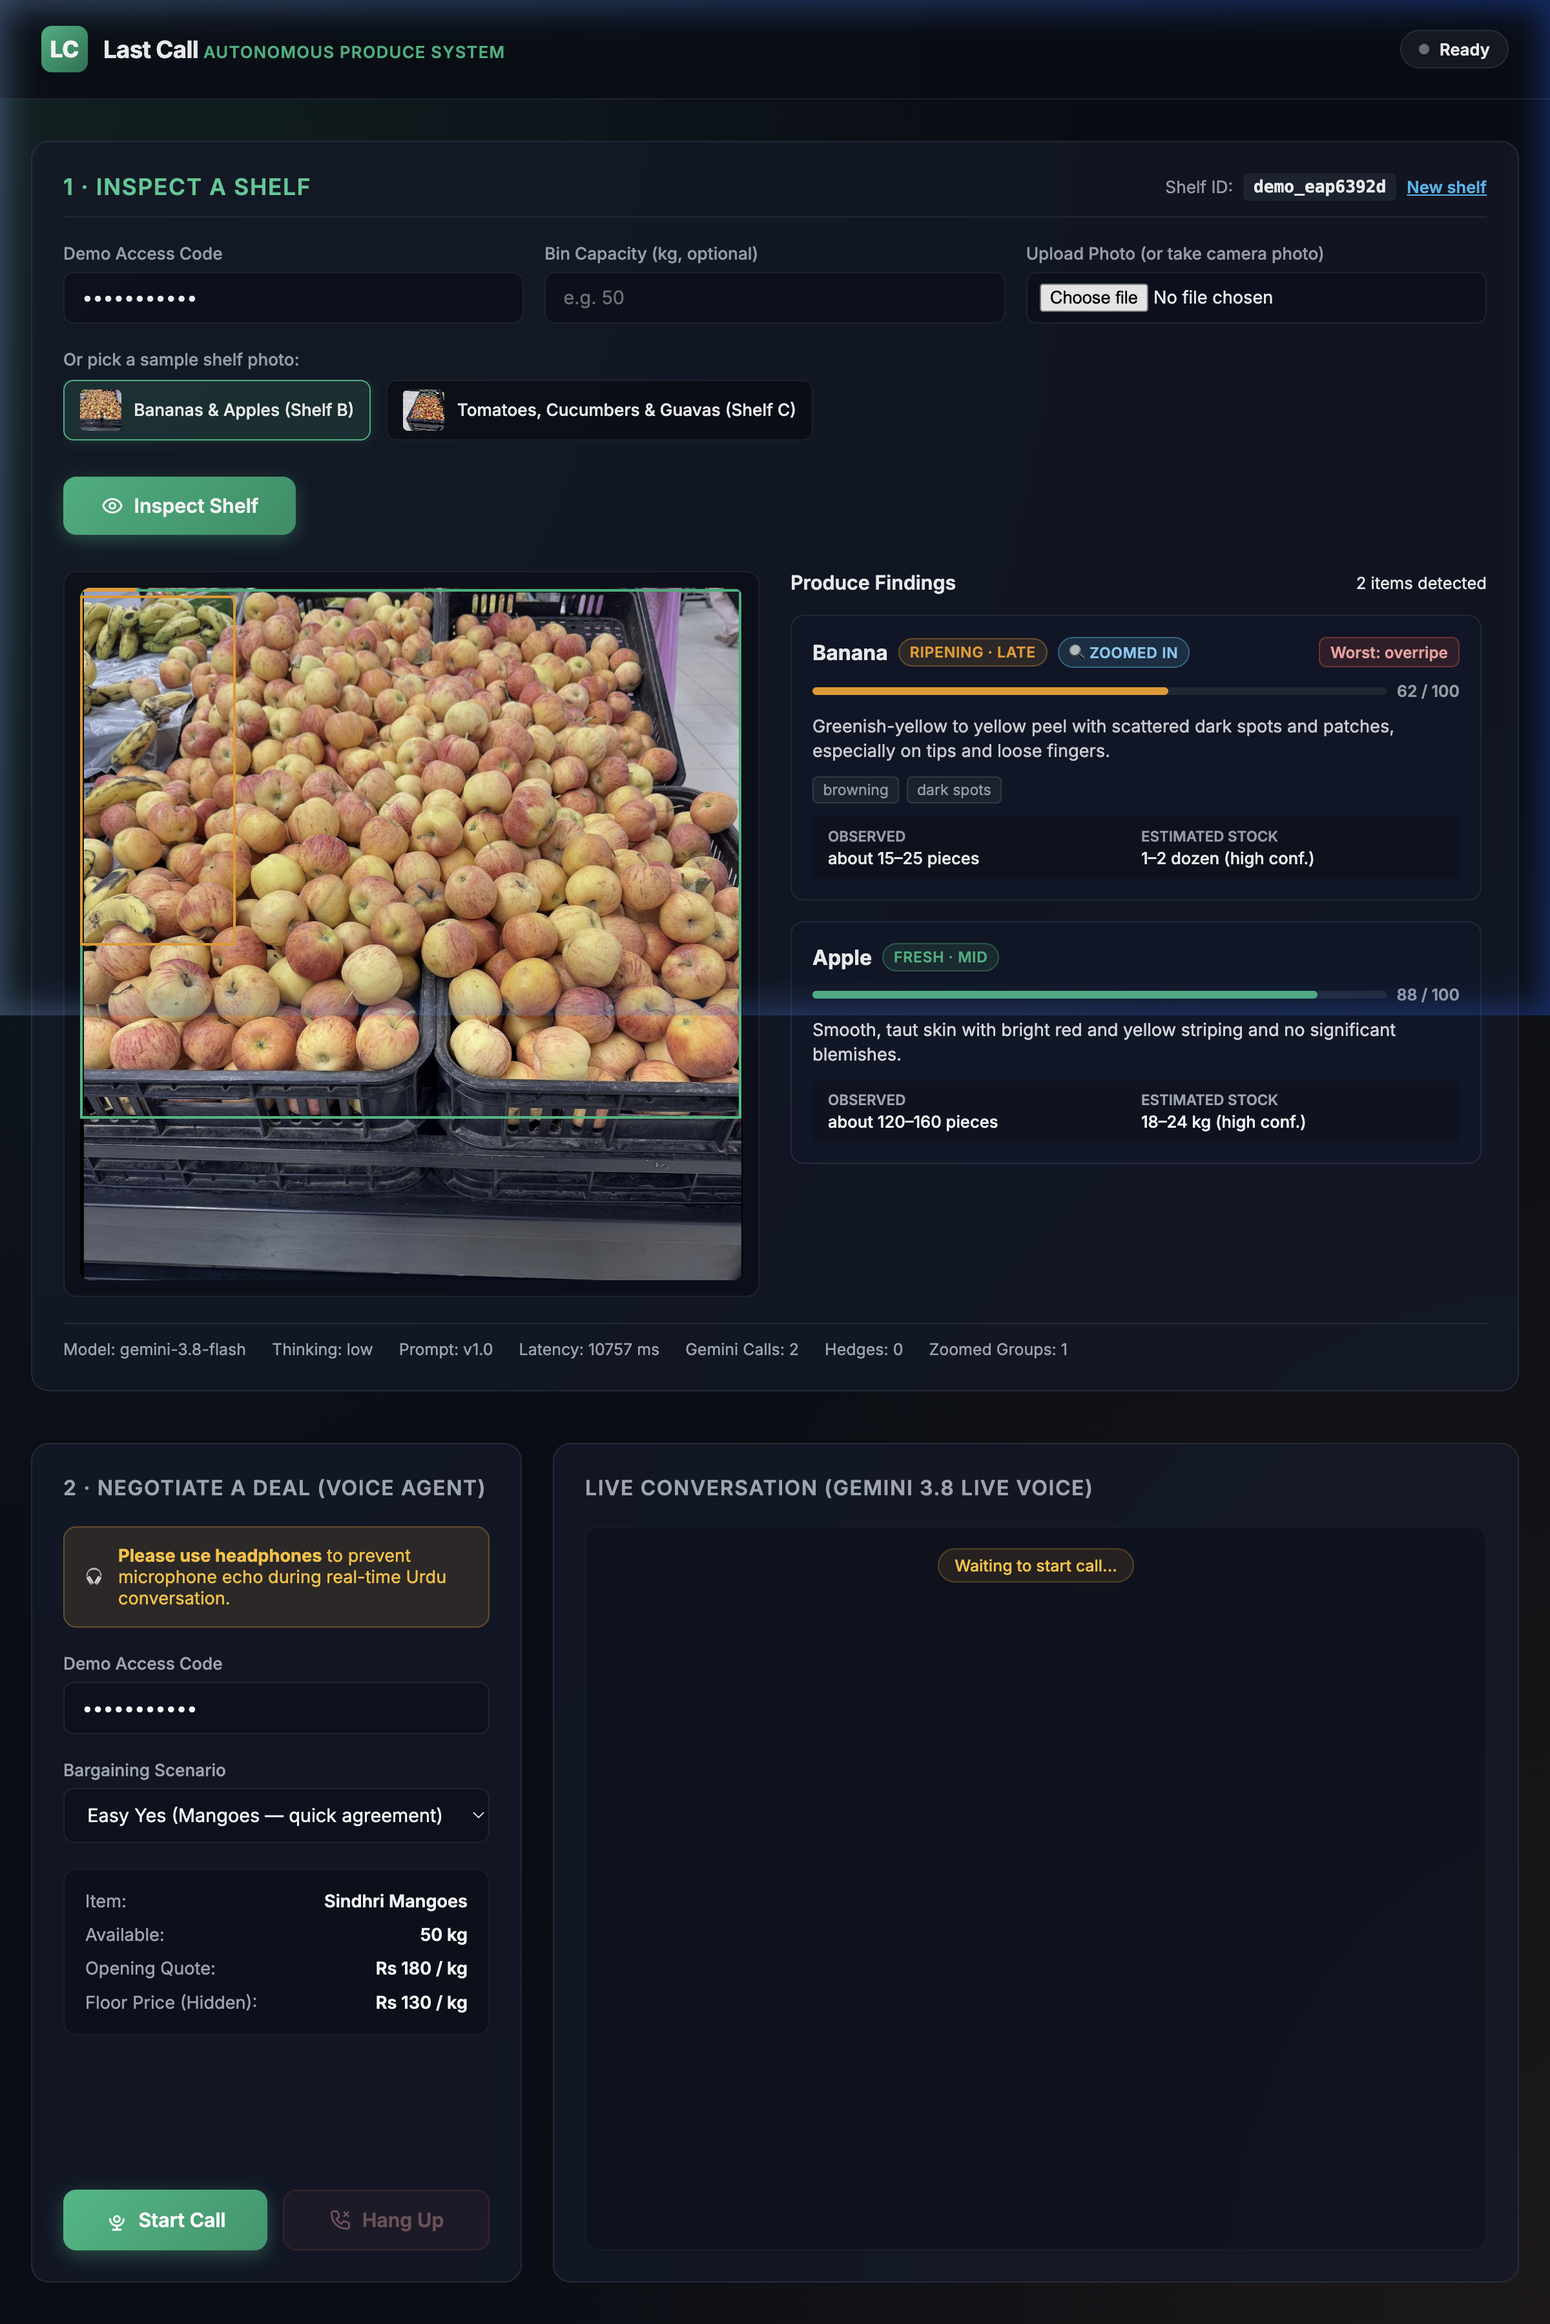
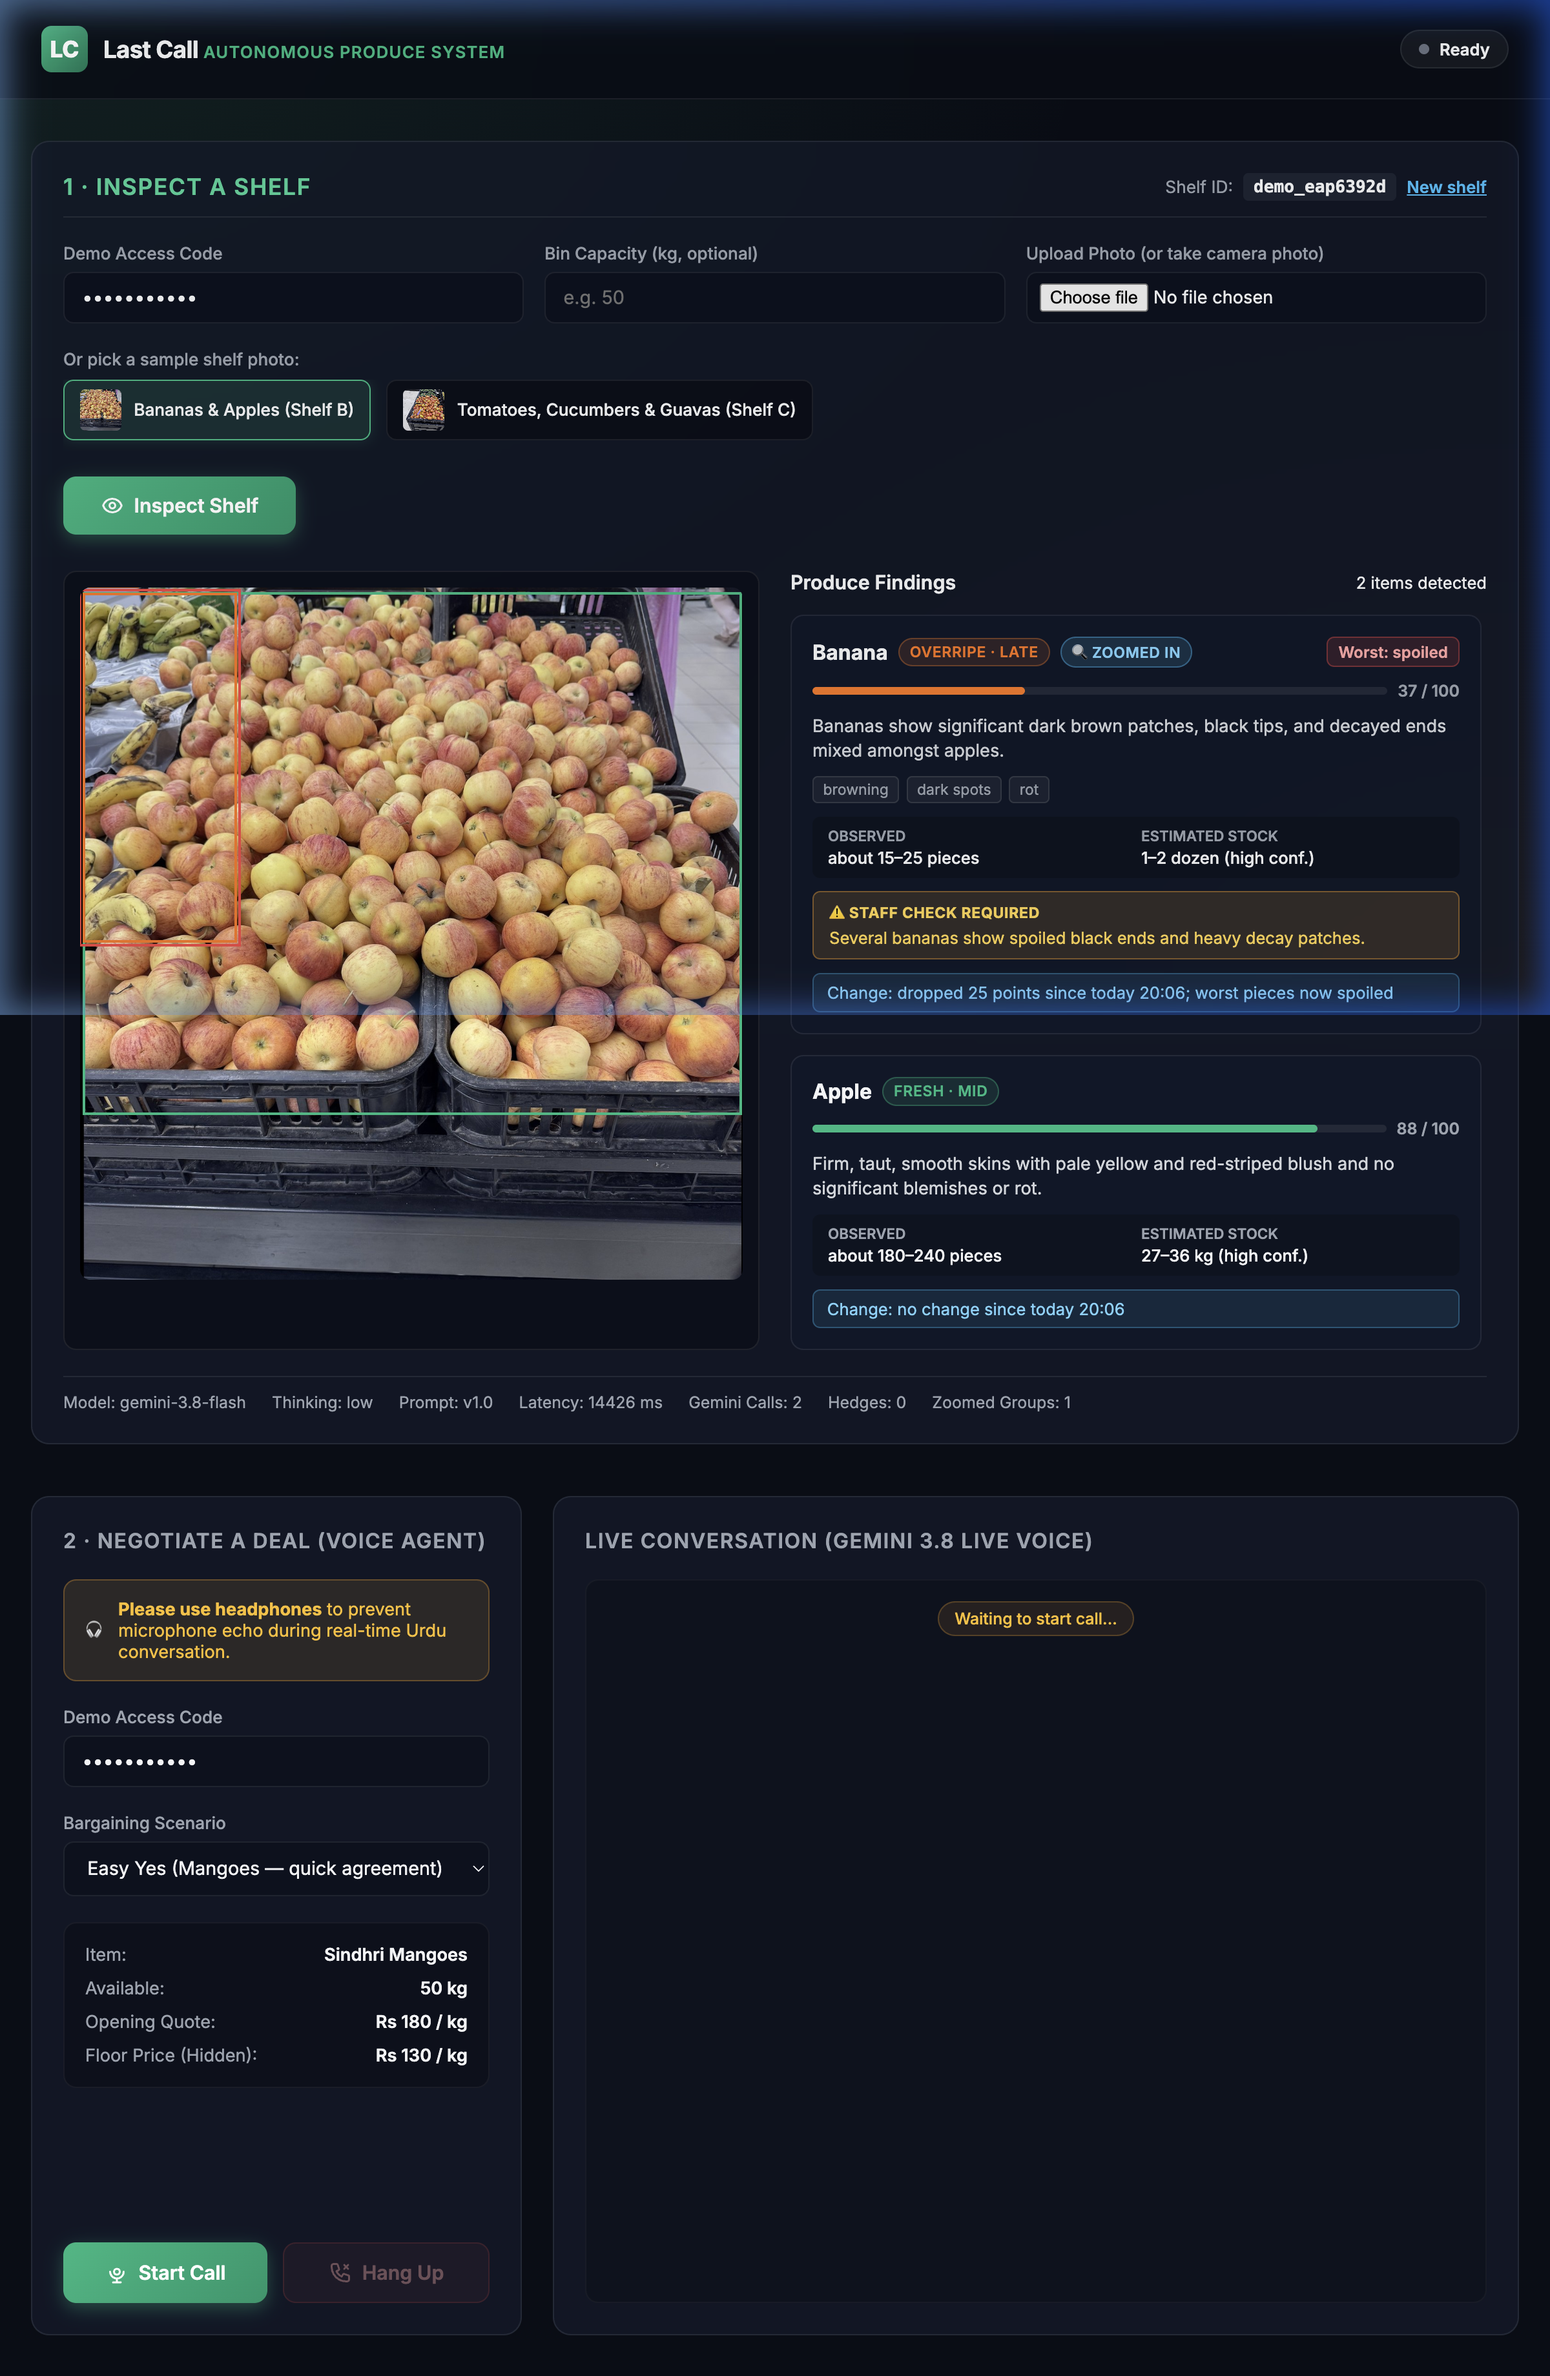
Module 1 Improvements

diff --git a/services/api/lastcall_api/static/index.html b/services/api/lastcall_api/static/index.html
@@ -35,6 +35,9 @@
       background-image: 
         radial-gradient(at 0% 0%, rgba(16, 185, 129, 0.12) 0px, transparent 50%),
         radial-gradient(at 100% 100%, rgba(245, 158, 11, 0.08) 0px, transparent 50%);
+      background-attachment: fixed;
+      background-repeat: no-repeat;
+      background-size: cover;
       color: var(--text-main);
       min-height: 100vh;
       display: flex;
@@ -1029,24 +1032,44 @@
     let activeSampleBlob = null;
     let activeSampleUrl = null;
 
-    function getOrCreateShelfId() {
+    function getStoredItem(key, defaultVal = '') {
       try {
-        let id = localStorage.getItem('lc_shelf_id');
-        if (!id || !/^demo_[a-z0-9_-]{8}$/.test(id)) {
-          id = 'demo_' + Math.random().toString(36).substring(2, 10);
-          localStorage.setItem('lc_shelf_id', id);
-        }
-        return id;
+        const val = localStorage.getItem(key);
+        return val !== null ? val : defaultVal;
       } catch (e) {
-        return 'demo_' + Math.random().toString(36).substring(2, 10);
+        return defaultVal;
       }
     }
 
-    function resetShelfId() {
-      const newId = 'demo_' + Math.random().toString(36).substring(2, 10);
+    function setStoredItem(key, val) {
       try {
-        localStorage.setItem('lc_shelf_id', newId);
+        localStorage.setItem(key, val);
       } catch (e) {}
+    }
+
+    function generateShelfId() {
+      const chars = 'abcdefghijklmnopqrstuvwxyz0123456789';
+      const bytes = new Uint8Array(8);
+      crypto.getRandomValues(bytes);
+      let randStr = '';
+      for (let i = 0; i < 8; i++) {
+        randStr += chars[bytes[i] % chars.length];
+      }
+      return 'demo_' + randStr;
+    }
+
+    function getOrCreateShelfId() {
+      let id = getStoredItem('lc_shelf_id', '');
+      if (!id || !/^demo_[a-z0-9]{8}$/.test(id)) {
+        id = generateShelfId();
+        setStoredItem('lc_shelf_id', id);
+      }
+      return id;
+    }
+
+    function resetShelfId() {
+      const newId = generateShelfId();
+      setStoredItem('lc_shelf_id', newId);
       shelfIdDisplay.textContent = newId;
       return newId;
     }
@@ -1451,7 +1474,7 @@
         inspectAccessCodeEl.focus();
         return;
       }
-      localStorage.setItem('lc_code', code);
+      setStoredItem('lc_code', code);
       inspectAccessCodeEl.value = code;
       accessCodeEl.value = code;
 
@@ -1545,19 +1568,19 @@
     const resultCard = document.getElementById('resultCard');
     const resultContent = document.getElementById('resultContent');
 
-    // Sync access codes
-    const savedCode = localStorage.getItem('lc_code') || '';
+    // Sync access codes safely
+    const savedCode = getStoredItem('lc_code', '');
     if (savedCode) {
       accessCodeEl.value = savedCode;
       inspectAccessCodeEl.value = savedCode;
     }
     inspectAccessCodeEl.addEventListener('input', () => {
       accessCodeEl.value = inspectAccessCodeEl.value;
-      localStorage.setItem('lc_code', inspectAccessCodeEl.value.trim());
+      setStoredItem('lc_code', inspectAccessCodeEl.value.trim());
     });
     accessCodeEl.addEventListener('input', () => {
       inspectAccessCodeEl.value = accessCodeEl.value;
-      localStorage.setItem('lc_code', accessCodeEl.value.trim());
+      setStoredItem('lc_code', accessCodeEl.value.trim());
     });
 
     function setStatus(text, type = '') {
@@ -1568,7 +1591,16 @@
     function appendMessage(speaker, text) {
       const msg = document.createElement('div');
       msg.className = 'msg msg-' + speaker;
-      msg.innerHTML = `<span class="msg-speaker">${speaker === 'agent' ? 'AI Assistant (Mart)' : 'You (Buyer)'}</span><span>${text}</span>`;
+
+      const speakerSpan = document.createElement('span');
+      speakerSpan.className = 'msg-speaker';
+      speakerSpan.textContent = speaker === 'agent' ? 'AI Assistant (Mart)' : 'You (Buyer)';
+
+      const textSpan = document.createElement('span');
+      textSpan.textContent = text;
+
+      msg.appendChild(speakerSpan);
+      msg.appendChild(textSpan);
       transcript.appendChild(msg);
       transcript.scrollTop = transcript.scrollHeight;
     }
@@ -1588,7 +1620,7 @@
         accessCodeEl.focus();
         return;
       }
-      localStorage.setItem('lc_code', code);
+      setStoredItem('lc_code', code);
 
       btnStart.disabled = true;
       btnHangup.disabled = false;

diff --git a/services/api/tests/test_demo_inspect.py b/services/api/tests/test_demo_inspect.py
@@ -6,6 +6,7 @@ from zoneinfo import ZoneInfo
 import pytest
 from fastapi.testclient import TestClient
 
+from lastcall_api.inspector.images import ImageError
 from lastcall_api.inspector.inspector import InspectorError
 from lastcall_api.main import app, _IP_REQUEST_HISTORY
 from lastcall_shared.config import get_settings
@@ -254,12 +255,12 @@ async def test_post_demo_inspect_success_and_repeat_shelf(setup_api_test):
     assert received_calls[1]["previous"].inspection_id == "insp_1"
 
 
-def test_post_demo_inspect_value_error():
+def test_post_demo_inspect_image_error():
     client = TestClient(app)
     headers = {"X-Demo-Access-Code": CODE}
 
     async def fake_inspect(*args, **kwargs):
-        raise ValueError("Corrupted image stream")
+        raise ImageError("Corrupted image stream")
 
     app.state.inspect_fn = fake_inspect
 
@@ -267,6 +268,22 @@ def test_post_demo_inspect_value_error():
     resp = client.post("/demo/inspect", headers=headers, files=files, data={"shelf_id": "shelf_1"})
     assert resp.status_code == 400
     assert "Not a readable image" in resp.json()["detail"]
+
+
+def test_post_demo_inspect_validation_error_not_turned_into_400():
+    client = TestClient(app, raise_server_exceptions=False)
+    headers = {"X-Demo-Access-Code": CODE}
+
+    async def fake_inspect(*args, **kwargs):
+        # Trigger real pydantic ValidationError
+        FreshnessResult.model_validate({"invalid": "data"})
+
+    app.state.inspect_fn = fake_inspect
+
+    files = {"photo": ("valid.jpg", b"good-data", "image/jpeg")}
+    resp = client.post("/demo/inspect", headers=headers, files=files, data={"shelf_id": "shelf_1"})
+    assert resp.status_code != 400
+    assert resp.status_code == 500
 
 
 def test_post_demo_inspect_inspector_error():
@@ -282,3 +299,52 @@ def test_post_demo_inspect_inspector_error():
     resp = client.post("/demo/inspect", headers=headers, files=files, data={"shelf_id": "shelf_1"})
     assert resp.status_code == 502
     assert "Inspection failed, please try again" in resp.json()["detail"]
+
+
+@pytest.mark.asyncio
+async def test_post_demo_inspect_concurrency_semaphore():
+    import asyncio
+    from httpx import ASGITransport, AsyncClient
+
+    current_concurrent = 0
+    max_concurrent_seen = 0
+    gate = asyncio.Event()
+
+    async def blocking_inspect(*args, **kwargs):
+        nonlocal current_concurrent, max_concurrent_seen
+        current_concurrent += 1
+        max_concurrent_seen = max(max_concurrent_seen, current_concurrent)
+        await gate.wait()
+        current_concurrent -= 1
+        return _make_dummy_result()
+
+    app.state.inspect_fn = blocking_inspect
+
+    transport = ASGITransport(app=app)
+    async with AsyncClient(transport=transport, base_url="http://testserver") as client:
+        headers = {"X-Demo-Access-Code": CODE}
+        data = {"shelf_id": "shelf_conc"}
+
+        # Launch 3 requests concurrently
+        t1 = asyncio.create_task(
+            client.post("/demo/inspect", headers=headers, files={"photo": ("img1.jpg", b"data1", "image/jpeg")}, data=data)
+        )
+        t2 = asyncio.create_task(
+            client.post("/demo/inspect", headers=headers, files={"photo": ("img2.jpg", b"data2", "image/jpeg")}, data=data)
+        )
+        t3 = asyncio.create_task(
+            client.post("/demo/inspect", headers=headers, files={"photo": ("img3.jpg", b"data3", "image/jpeg")}, data=data)
+        )
+
+        # Allow tasks to start and queue
+        await asyncio.sleep(0.05)
+        # Exactly 2 should have entered inspect_fn due to semaphore(2)
+        assert current_concurrent == 2
+        assert max_concurrent_seen == 2
+
+        # Release the gate to let the first 2 finish and the 3rd enter
+        gate.set()
+        resps = await asyncio.gather(t1, t2, t3)
+        for r in resps:
+            assert r.status_code == 200
+        assert max_concurrent_seen == 2

diff --git a/services/api/lastcall_api/main.py b/services/api/lastcall_api/main.py
@@ -16,6 +16,7 @@ from fastapi.responses import FileResponse
 from fastapi.staticfiles import StaticFiles
 from pydantic import BaseModel
 
+from lastcall_api.inspector.images import ImageError
 from lastcall_api.inspector.inspector import InspectorError, inspect_photo
 from lastcall_shared.firestore_store import FirestoreStore
 from lastcall_shared.logging_utils import setup_structured_logging
@@ -31,6 +32,9 @@ PKT = ZoneInfo("Asia/Karachi")
 logger = setup_structured_logging(service_name=SERVICE_NAME)
 
 STATIC_DIR = Path(__file__).parent / "static"
+
+# Concurrency limiting: max 2 simultaneous inspections per instance
+_INSPECT_SEMAPHORE = asyncio.Semaphore(2)
 
 # Per-IP rate limiting: history keyed by (bucket, client_ip)
 _IP_LIMITER_LOCK = asyncio.Lock()
@@ -289,18 +293,19 @@ async def demo_inspect(
     # 7. Get previous inspection for the shelf
     previous = await store.get_latest_inspection("demo_mart", shelf_id)
 
-    # 8. Call inspection function
+    # 8. Call inspection function with concurrency limit
     inspect_fn = getattr(app.state, "inspect_fn", inspect_photo)
     try:
-        result = await inspect_fn(
-            contents,
-            mart_id="demo_mart",
-            shelf_id=shelf_id,
-            previous=previous,
-            now=now_pkt,
-            bin_capacity_kg=bin_capacity_kg,
-        )
-    except ValueError as exc:
+        async with _INSPECT_SEMAPHORE:
+            result = await inspect_fn(
+                contents,
+                mart_id="demo_mart",
+                shelf_id=shelf_id,
+                previous=previous,
+                now=now_pkt,
+                bin_capacity_kg=bin_capacity_kg,
+            )
+    except ImageError as exc:
         raise HTTPException(
             status_code=status.HTTP_400_BAD_REQUEST,
             detail="Not a readable image",

diff --git a/services/api/lastcall_api/inspector/images.py b/services/api/lastcall_api/inspector/images.py
@@ -8,6 +8,11 @@ from PIL import Image, ImageOps
 Image.MAX_IMAGE_PIXELS = 40_000_000
 
 
+class ImageError(ValueError):
+    """Raised when an image cannot be opened, decoded, or read."""
+    pass
+
+
 class PreparedImage(NamedTuple):
     full: Image.Image
     jpeg: bytes
@@ -20,7 +25,7 @@ def prepare_image(raw: bytes) -> PreparedImage:
     """Decodes, validates, normalizes, and prepares shelf photo for inspection.
 
     1. Decompression bomb guard: Image.MAX_IMAGE_PIXELS = 40M.
-    2. Any open or decode failure raises ValueError('not a readable image').
+    2. Any open or decode failure raises ImageError('not a readable image').
     3. Handles EXIF orientation via ImageOps.exif_transpose and converts to RGB.
     4. full: kept in memory, downscaled only if long side > 4096 px.
     5. jpeg: downscaled so long side <= 1600 px (LANCZOS; never upscaled), quality 85, no EXIF.
@@ -29,7 +34,7 @@ def prepare_image(raw: bytes) -> PreparedImage:
         img = Image.open(io.BytesIO(raw))
         img.load()
     except Exception as exc:
-        raise ValueError("not a readable image") from exc
+        raise ImageError("not a readable image") from exc
 
     # Handle EXIF orientation
     transposed = ImageOps.exif_transpose(img)
